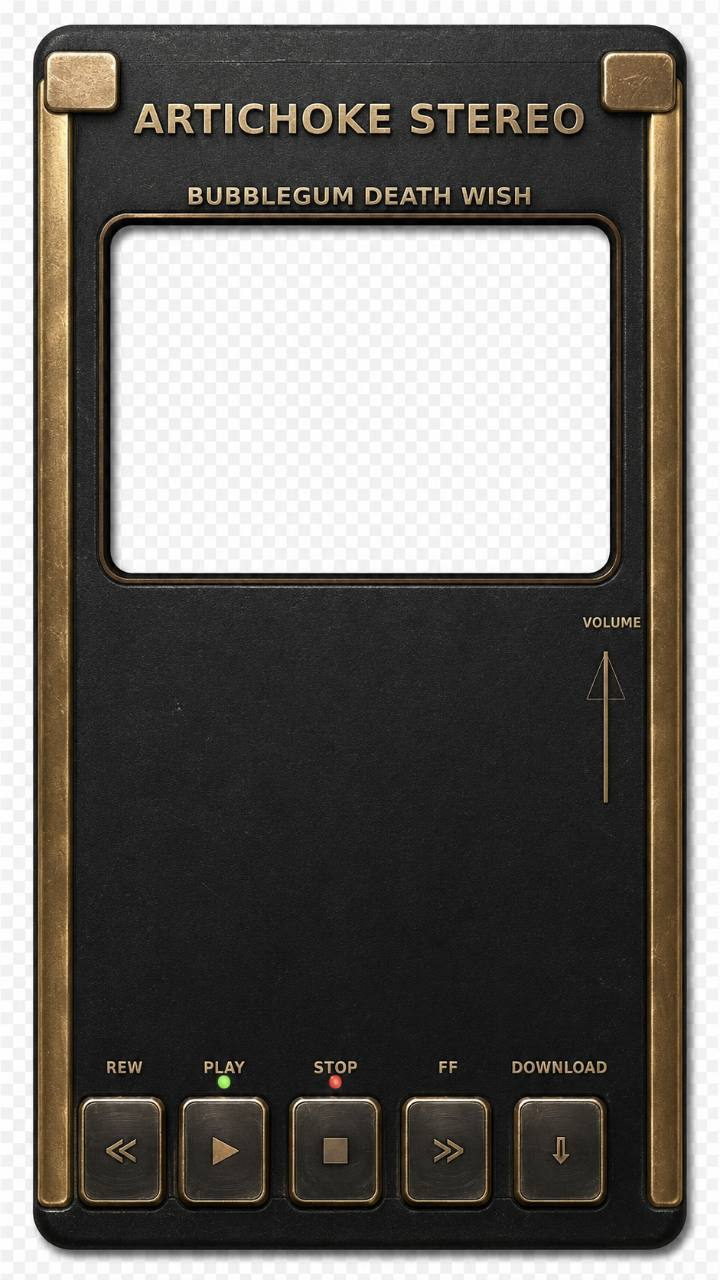
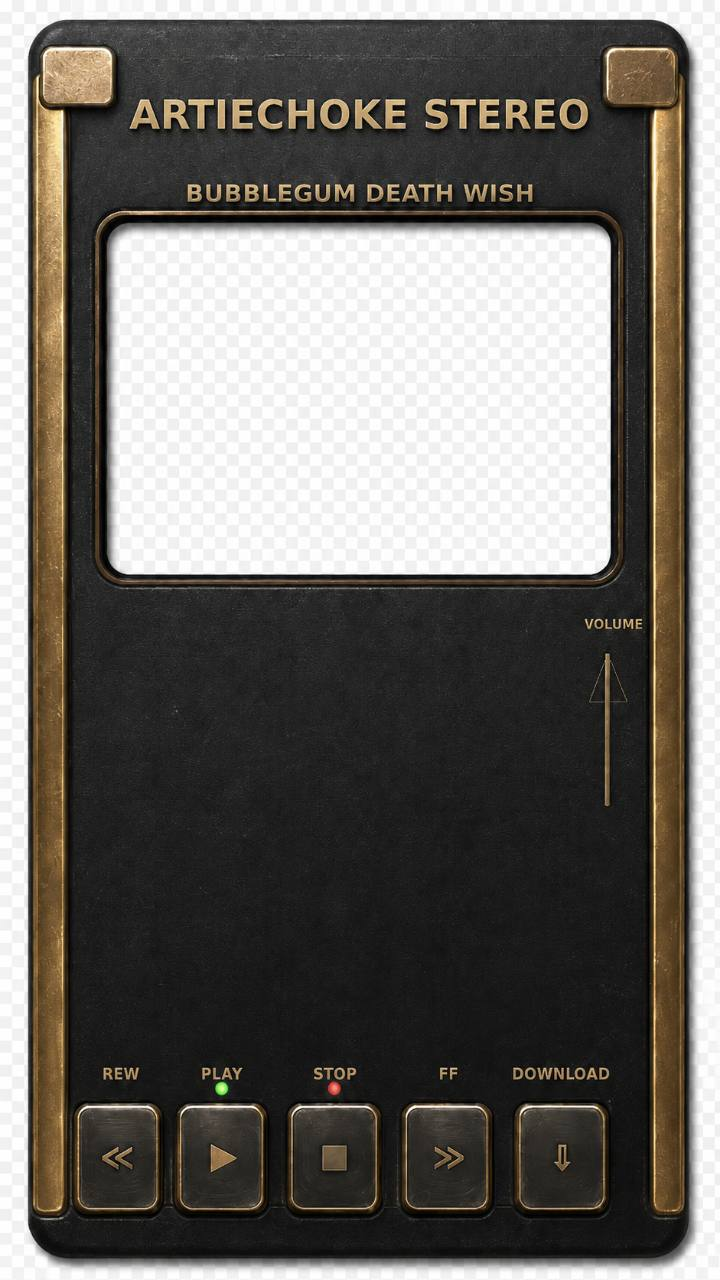
Replace chassis with corrected ARTIECHOKE artwork

Changed region(s): [[0.0306, 0.0, 0.9778, 1.0]]

diff --git a/index.html b/index.html
@@ -12,10 +12,10 @@
   <title>Bubblegum Death Wish | ARTIECHOKE</title>
   <link rel="manifest" href="manifest.webmanifest">
   <link rel="apple-touch-icon" href="assets/asset_C_gold_spool_320.png">
-  <link rel="preload" href="assets/skin_v2_chassis.jpg" as="image">
+  <link rel="preload" href="assets/skin_v2_chassis.jpg?v=corrected" as="image">
   <link rel="preload" href="assets/skin_v2_cassette.jpg" as="image">
   <link rel="preload" href="assets/skin_v2_reel.jpg" as="image">
-  <link rel="stylesheet" href="style.css?v=skin-v2">
+  <link rel="stylesheet" href="style.css?v=skin-v2.1">
 </head>
 <body>
   <main class="stage">
@@ -23,7 +23,7 @@
       <div class="player-frame" id="playerFrame">
         <img
           class="layer chassis"
-          src="assets/skin_v2_chassis.jpg"
+          src="assets/skin_v2_chassis.jpg?v=corrected"
           alt="ARTIECHOKE Stereo, Bubblegum Death Wish cassette player"
           width="720"
           height="1280"
@@ -63,7 +63,6 @@
 
         <div class="cassette-window-trim" aria-hidden="true"></div>
 
-        <div class="brand-title" aria-hidden="true">ARTIECHOKE STEREO</div>
         <button class="fullscreen-control" id="fullscreenControl" type="button" aria-label="Enter full screen" title="Enter full screen">
           <span class="fullscreen-icon" aria-hidden="true">
             <span class="fullscreen-corner top-left"></span>

diff --git a/style.css b/style.css
@@ -266,30 +266,6 @@ input {
   pointer-events: none;
 }
 
-.brand-title {
-  position: absolute;
-  z-index: 45;
-  top: 6.8%;
-  left: 14.5%;
-  width: 71%;
-  height: 5.8%;
-  display: grid;
-  place-items: center;
-  overflow: hidden;
-  border: max(1px, 0.12cqi) solid #4b402c;
-  border-radius: 2px;
-  background: #252421;
-  color: #f1c76e;
-  font-size: clamp(15px, 5.2cqi, 112px);
-  font-weight: 800;
-  letter-spacing: 0;
-  line-height: 1;
-  text-align: center;
-  text-shadow: 0 0.18cqi 0 #5f4214;
-  white-space: nowrap;
-  pointer-events: none;
-}
-
 .fullscreen-control {
   position: absolute;
   z-index: 55;
